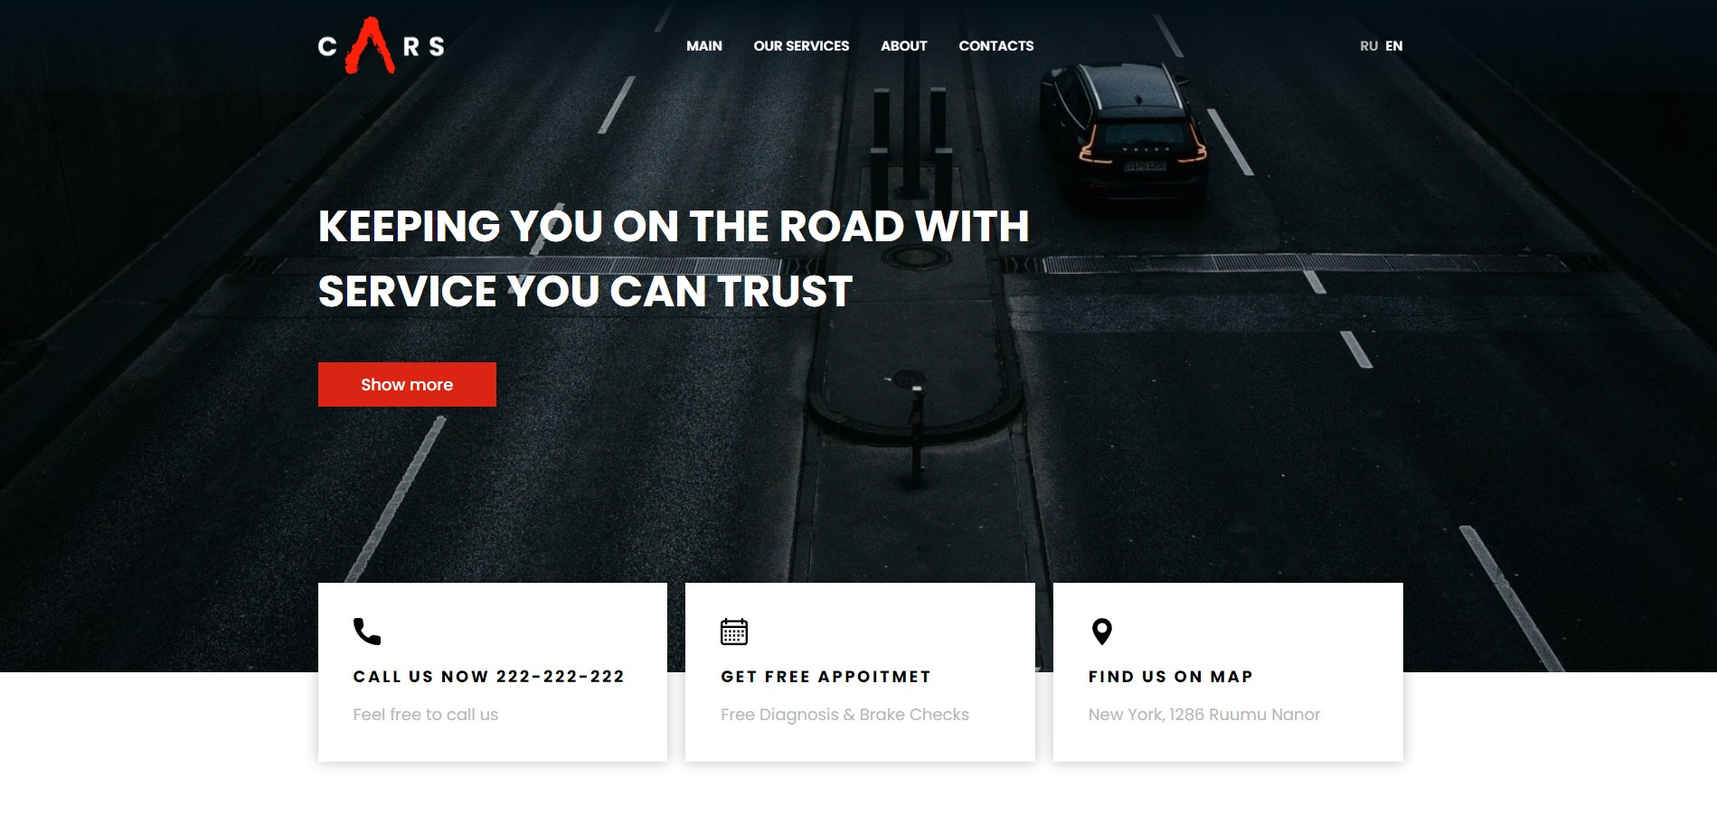
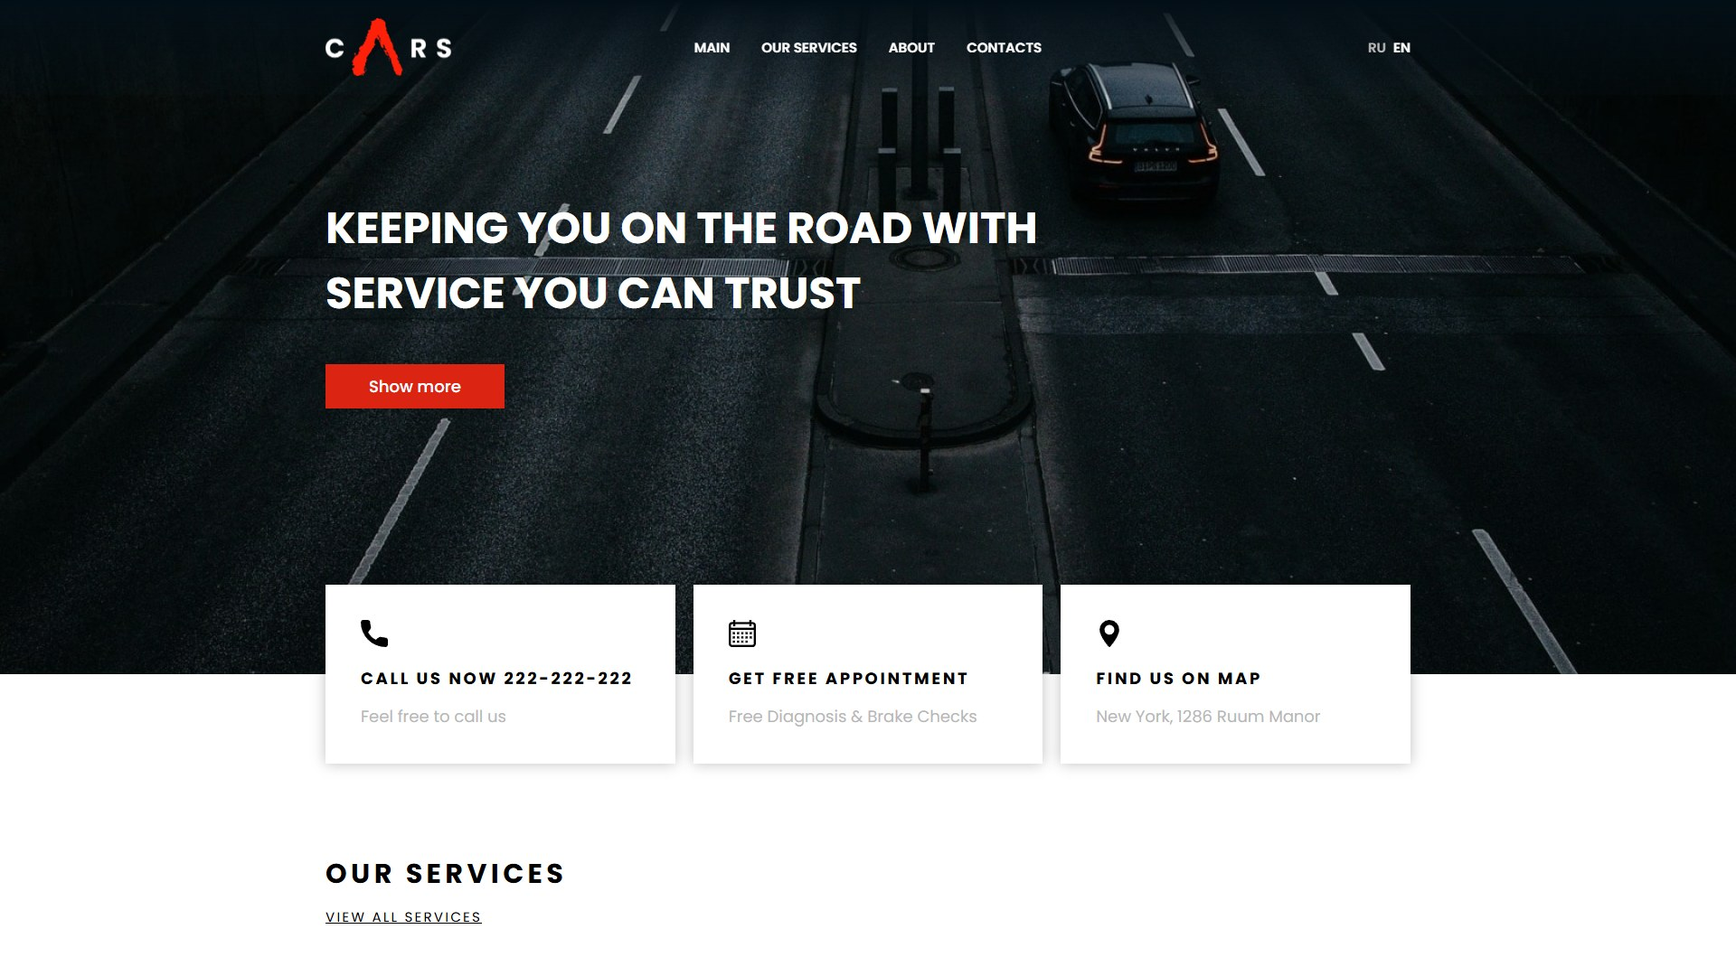
Доработка: meta description, опечатка APPOINTMENT, год в футере, новый README

diff --git a/index.html b/index.html
@@ -1,1 +1,1 @@
-<!DOCTYPE html><html lang=en><meta charset=UTF-8><meta content="IE=edge"http-equiv=X-UA-Compatible><meta content="width=device-width,initial-scale=1"name=viewport><link href=img/favicon/apple-touch-icon.png rel=apple-touch-icon sizes=180x180><link href=img/favicon/favicon-32x32.png rel=icon sizes=32x32 type=image/png><link href=img/favicon/favicon-16x16.png rel=icon sizes=16x16 type=image/png><link href=img/favicon/site.webmanifest rel=manifest><link href=img/favicon/safari-pinned-tab.svg rel=mask-icon color=#5bbad5><link href=img/favicon/favicon.ico rel="shortcut icon"><meta content=#2d89ef name=msapplication-TileColor><meta content=img/favicon/browserconfig.xml name=msapplication-config><meta content=#ffffff name=theme-color><title>CARS</title><link href=css/index.css rel=stylesheet><header class="header header-activ"><div class=wrapper><div class=header-wrapper><div class=header-img><a class=header-img-link href=/ ><img alt="KEEPING YOU ON THE ROAD WITH SERVICE YOU CAN TRUST"class=header-img-pic src=img/svg/logo.svg></a></div><nav class=header-nav><ul class=header-nav-menu><li class=header-nav-menu-item><a class="header-menu-item-link js-scroll"href=#main>Main</a><li class=header-nav-menu-item><a class="header-menu-item-link js-scroll"href=#our_services>Our services</a><li class=header-nav-menu-item><a class="header-menu-item-link js-scroll"href=#about>About</a><li class=header-nav-menu-item><a class="header-menu-item-link js-scroll"href=#contacts>Contacts</a></ul><div class=header-nav-close><span class=header-nav-close-line></span> <span class=header-nav-close-line></span></div></nav><div class=header-lang><ul class=header-lang-menu><li class=header-lang-menu-item><a class=header-lang-menu-item-link href=#5>ru</a><li class=header-lang-menu-item><a class="header-lang-menu-item-link lang-menu-item-link-activ"href=#6>en</a></ul></div><div class="burger header-burger"><span class="burger-line burger-line-first"></span> <span class="burger-line burger-line-second"></span> <span class="burger-line burger-line-third"></span></div></div></div></header><main class=main><div class=intro id=main><div class=wrapper><div class=intro-owerlay></div><div class=intro-content><h1 class=intro-title>Keeping you on the road with service you can trust</h1><a class=intro-show-more href=!#>Show more</a></div></div></div><div class=address><div class=wrapper><div class="cards address-cards"><div class="card address-cards-card"><div class=address-cards-item-img><img alt="CALL US NOW 222-222-222"class=address-cards-item-img-pic src=img/svg/call.svg></div><h3 class=address-cards-item-title>CALL US NOW 222-222-222</h3><p class=address-cards-item-desc>Feel free to call us</div><div class="card address-cards-card"><div class=address-cards-item-img><img alt="GET FREE APPOITMET"class=address-cards-item-img-pic src=img/svg/calendar.svg></div><h3 class=address-cards-item-title>GET FREE APPOITMET</h3><p class=address-cards-item-desc>Free Diagnosis & Brake Checks</div><div class="card address-cards-card"><div class=address-cards-item-img><img alt="FIND US ON MAP"class=address-cards-item-img-pic src=img/svg/maps-flags.svg></div><h3 class=address-cards-item-title>FIND US ON MAP</h3><p class=address-cards-item-desc>New York, 1286 Ruumu Nanor</div></div></div></div><section class=services id=our_services><div class=wrapper><h2 class=services-title>OUR SERVICES</h2><a class=services-view-all href=!#>VIEW ALL SERVICES</a><div class="cards services-cards"><div class="card services-cards-card"><div class=services-cards-card-miniature><div class=services-cards-card-miniature-img><img alt=DIAGNOSTIC class=services-cards-card-miniature-img-pic src=img/services_1-min.jpg></div><div class=services-cards-card-miniature-overlay><div class=services-cards-card-miniature-overlay-img><img alt=plus class=services-cards-card-miniature-overlay-img-pic src=img/svg/plus.svg></div><p class=services-cards-card-miniature-overlay-desc>ANNUAL CHECKUPS FROM YOUR PHYSICIAN KEEP YOU IN GOOD HEALTH</div></div><h3 class=services-cards-card-subtitle>DIAGNOSTIC</h3></div><div class="card services-cards-card"><div class=services-cards-card-miniature><div class=services-cards-card-miniature-img><img alt="TIRES & WHEELS"class=services-cards-card-miniature-img-pic src=img/services_2-min.jpg></div><div class=services-cards-card-miniature-overlay><div class=services-cards-card-miniature-overlay-img><img alt=plus class=services-cards-card-miniature-overlay-img-pic src=img/svg/plus.svg></div><p class=services-cards-card-miniature-overlay-desc>ANNUAL CHECKUPS FROM YOUR PHYSICIAN KEEP YOU IN GOOD HEALTH</div></div><h3 class=services-cards-card-subtitle>TIRES & WHEELS</h3></div><div class="card services-cards-card"><div class=services-cards-card-miniature><div class=services-cards-card-miniature-img><img alt=ENGINES class=services-cards-card-miniature-img-pic src=img/services_3-min.jpg></div><div class=services-cards-card-miniature-overlay><div class=services-cards-card-miniature-overlay-img><img alt=plus class=services-cards-card-miniature-overlay-img-pic src=img/svg/plus.svg></div><p class=services-cards-card-miniature-overlay-desc>ANNUAL CHECKUPS FROM YOUR PHYSICIAN KEEP YOU IN GOOD HEALTH</div></div><h3 class=services-cards-card-subtitle>ENGINES</h3></div></div></div></section><div class=understand id=about><div class=wrapper><div class=understand-wrap><div class=understand-content><h2 class=understand-content-title>WE UNDERSTAND HOW IMPORTANT IT IS TO FIND THE RIGHT AUTO SERVICE</h2><p class=understand-content-text>Car repairs and maintenance can be expensive and no one wants to have pay to repair damage caused by shoddy repair service. When you bring your car into our auto shop, you won’t have to worry because our staff is comprised of ASE certified technicians who are committed to making sure you have a safe dependable car.</p><a class=understand-content-more href=!#>MORE ABOUT US</a></div><div class=understand-img><img alt="WE UNDERSTAND HOW IMPORTANT IT IS TO FIND THE RIGHT AUTO SERVICE"class=understand-img-pic src=img/understand-min.jpg></div></div></div></div><section class=fast><div class=wrapper><h2 class=fast-title>FAST & EASY</h2><h3 class=fast-subtitle>our work process</h3><div class="cards fast-cards"><div class="card fast-cards-card"><h4 class=fast-cards-card-title>1.Request your quote</h4><p class=fast-cards-card-desc>We will be there when you most need us</div><div class="card fast-cards-card"><h4 class=fast-cards-card-title>02. BRING YOUR VEHICLE</h4><p class=fast-cards-card-desc>We are car guys at heart</div><div class="card fast-cards-card"><h4 class=fast-cards-card-title>03. GET IT REPAIRED</h4><p class=fast-cards-card-desc>High quality, low cost car servicing</div></div></div></section><section class=contact id=contacts><div class=wrapper><h2 class=contact-title>Contact us</h2><form class=contact-form><div class=contact-form-row><div class=contact-form-group><input class=contact-form-input id=name name=user_name placeholder=" "><label class=contact-form-label for=name>Name</label></div><div class="contact-form-group contact-form-group-nth"><input class=contact-form-input id=last-name name=user_last-name placeholder=" "><label class=contact-form-label for=last-name>Last name</label></div><div class=contact-form-group><input class=contact-form-input id=email name=user_email placeholder=" "type=email><label class=contact-form-label for=email>Email</label></div><div class="contact-form-group contact-form-group-nth"><input class=contact-form-input id=phone name=user_phone placeholder=" "type=tel><label class=contact-form-label for=phone>Phone</label></div></div><div class=contact-form-massage><textarea class=contact-form-textarea id=message name=user_message placeholder=Message></textarea></div><button class=contact-form-button type=submit>Send</button></form></div></section></main><footer class=footer><div class=wrapper><div class=footer-wrap><div class=footer-desc><p class=footer-desc-text>© 2021 Auto theme by Frontend Tricks</div><div class=footer-social-links><a class=footer-social-link href=!# target=_blank><img alt=linkedin class=footer-social-link-pic src=img/svg/linkedin.svg> </a><a class=footer-social-link href=!# target=_blank><img alt=facebook class=footer-social-link-pic src=img/svg/facebook.svg> </a><a class=footer-social-link href=!# target=_blank><img alt=instagram class=footer-social-link-pic src=img/svg/instagram.svg></a></div></div></div></footer><script src=js/index.js></script>
+<!DOCTYPE html><html lang=en><meta charset=UTF-8><meta content="IE=edge"http-equiv=X-UA-Compatible><meta content="width=device-width,initial-scale=1"name=viewport><meta content="CARS — auto repair service: diagnostics, tires & wheels, engines. Keeping you on the road with service you can trust."name=description><link href=img/favicon/apple-touch-icon.png rel=apple-touch-icon sizes=180x180><link href=img/favicon/favicon-32x32.png rel=icon sizes=32x32 type=image/png><link href=img/favicon/favicon-16x16.png rel=icon sizes=16x16 type=image/png><link href=img/favicon/site.webmanifest rel=manifest><link href=img/favicon/safari-pinned-tab.svg rel=mask-icon color=#5bbad5><link href=img/favicon/favicon.ico rel="shortcut icon"><meta content=#2d89ef name=msapplication-TileColor><meta content=img/favicon/browserconfig.xml name=msapplication-config><meta content=#ffffff name=theme-color><title>CARS</title><link href=css/index.css rel=stylesheet><header class="header header-activ"><div class=wrapper><div class=header-wrapper><div class=header-img><a class=header-img-link href=/ ><img alt="KEEPING YOU ON THE ROAD WITH SERVICE YOU CAN TRUST"class=header-img-pic src=img/svg/logo.svg></a></div><nav class=header-nav><ul class=header-nav-menu><li class=header-nav-menu-item><a class="header-menu-item-link js-scroll"href=#main>Main</a><li class=header-nav-menu-item><a class="header-menu-item-link js-scroll"href=#our_services>Our services</a><li class=header-nav-menu-item><a class="header-menu-item-link js-scroll"href=#about>About</a><li class=header-nav-menu-item><a class="header-menu-item-link js-scroll"href=#contacts>Contacts</a></ul><div class=header-nav-close><span class=header-nav-close-line></span> <span class=header-nav-close-line></span></div></nav><div class=header-lang><ul class=header-lang-menu><li class=header-lang-menu-item><a class=header-lang-menu-item-link href=#5>ru</a><li class=header-lang-menu-item><a class="header-lang-menu-item-link lang-menu-item-link-activ"href=#6>en</a></ul></div><div class="burger header-burger"><span class="burger-line burger-line-first"></span> <span class="burger-line burger-line-second"></span> <span class="burger-line burger-line-third"></span></div></div></div></header><main class=main><div class=intro id=main><div class=wrapper><div class=intro-owerlay></div><div class=intro-content><h1 class=intro-title>Keeping you on the road with service you can trust</h1><a class=intro-show-more href=!#>Show more</a></div></div></div><div class=address><div class=wrapper><div class="cards address-cards"><div class="card address-cards-card"><div class=address-cards-item-img><img alt="CALL US NOW 222-222-222"class=address-cards-item-img-pic src=img/svg/call.svg></div><h3 class=address-cards-item-title>CALL US NOW 222-222-222</h3><p class=address-cards-item-desc>Feel free to call us</div><div class="card address-cards-card"><div class=address-cards-item-img><img alt="GET FREE APPOINTMENT"class=address-cards-item-img-pic src=img/svg/calendar.svg></div><h3 class=address-cards-item-title>GET FREE APPOINTMENT</h3><p class=address-cards-item-desc>Free Diagnosis & Brake Checks</div><div class="card address-cards-card"><div class=address-cards-item-img><img alt="FIND US ON MAP"class=address-cards-item-img-pic src=img/svg/maps-flags.svg></div><h3 class=address-cards-item-title>FIND US ON MAP</h3><p class=address-cards-item-desc>New York, 1286 Ruum Manor</div></div></div></div><section class=services id=our_services><div class=wrapper><h2 class=services-title>OUR SERVICES</h2><a class=services-view-all href=!#>VIEW ALL SERVICES</a><div class="cards services-cards"><div class="card services-cards-card"><div class=services-cards-card-miniature><div class=services-cards-card-miniature-img><img alt=DIAGNOSTIC class=services-cards-card-miniature-img-pic src=img/services_1-min.jpg></div><div class=services-cards-card-miniature-overlay><div class=services-cards-card-miniature-overlay-img><img alt=plus class=services-cards-card-miniature-overlay-img-pic src=img/svg/plus.svg></div><p class=services-cards-card-miniature-overlay-desc>ANNUAL CHECKUPS FROM YOUR PHYSICIAN KEEP YOU IN GOOD HEALTH</div></div><h3 class=services-cards-card-subtitle>DIAGNOSTIC</h3></div><div class="card services-cards-card"><div class=services-cards-card-miniature><div class=services-cards-card-miniature-img><img alt="TIRES & WHEELS"class=services-cards-card-miniature-img-pic src=img/services_2-min.jpg></div><div class=services-cards-card-miniature-overlay><div class=services-cards-card-miniature-overlay-img><img alt=plus class=services-cards-card-miniature-overlay-img-pic src=img/svg/plus.svg></div><p class=services-cards-card-miniature-overlay-desc>ANNUAL CHECKUPS FROM YOUR PHYSICIAN KEEP YOU IN GOOD HEALTH</div></div><h3 class=services-cards-card-subtitle>TIRES & WHEELS</h3></div><div class="card services-cards-card"><div class=services-cards-card-miniature><div class=services-cards-card-miniature-img><img alt=ENGINES class=services-cards-card-miniature-img-pic src=img/services_3-min.jpg></div><div class=services-cards-card-miniature-overlay><div class=services-cards-card-miniature-overlay-img><img alt=plus class=services-cards-card-miniature-overlay-img-pic src=img/svg/plus.svg></div><p class=services-cards-card-miniature-overlay-desc>ANNUAL CHECKUPS FROM YOUR PHYSICIAN KEEP YOU IN GOOD HEALTH</div></div><h3 class=services-cards-card-subtitle>ENGINES</h3></div></div></div></section><div class=understand id=about><div class=wrapper><div class=understand-wrap><div class=understand-content><h2 class=understand-content-title>WE UNDERSTAND HOW IMPORTANT IT IS TO FIND THE RIGHT AUTO SERVICE</h2><p class=understand-content-text>Car repairs and maintenance can be expensive and no one wants to have pay to repair damage caused by shoddy repair service. When you bring your car into our auto shop, you won’t have to worry because our staff is comprised of ASE certified technicians who are committed to making sure you have a safe dependable car.</p><a class=understand-content-more href=!#>MORE ABOUT US</a></div><div class=understand-img><img alt="WE UNDERSTAND HOW IMPORTANT IT IS TO FIND THE RIGHT AUTO SERVICE"class=understand-img-pic src=img/understand-min.jpg></div></div></div></div><section class=fast><div class=wrapper><h2 class=fast-title>FAST & EASY</h2><h3 class=fast-subtitle>our work process</h3><div class="cards fast-cards"><div class="card fast-cards-card"><h4 class=fast-cards-card-title>1.Request your quote</h4><p class=fast-cards-card-desc>We will be there when you most need us</div><div class="card fast-cards-card"><h4 class=fast-cards-card-title>02. BRING YOUR VEHICLE</h4><p class=fast-cards-card-desc>We are car guys at heart</div><div class="card fast-cards-card"><h4 class=fast-cards-card-title>03. GET IT REPAIRED</h4><p class=fast-cards-card-desc>High quality, low cost car servicing</div></div></div></section><section class=contact id=contacts><div class=wrapper><h2 class=contact-title>Contact us</h2><form class=contact-form><div class=contact-form-row><div class=contact-form-group><input class=contact-form-input id=name name=user_name placeholder=" "><label class=contact-form-label for=name>Name</label></div><div class="contact-form-group contact-form-group-nth"><input class=contact-form-input id=last-name name=user_last-name placeholder=" "><label class=contact-form-label for=last-name>Last name</label></div><div class=contact-form-group><input class=contact-form-input id=email name=user_email placeholder=" "type=email><label class=contact-form-label for=email>Email</label></div><div class="contact-form-group contact-form-group-nth"><input class=contact-form-input id=phone name=user_phone placeholder=" "type=tel><label class=contact-form-label for=phone>Phone</label></div></div><div class=contact-form-massage><textarea class=contact-form-textarea id=message name=user_message placeholder=Message></textarea></div><button class=contact-form-button type=submit>Send</button></form></div></section></main><footer class=footer><div class=wrapper><div class=footer-wrap><div class=footer-desc><p class=footer-desc-text>© 2026 Auto theme by Frontend Tricks</div><div class=footer-social-links><a class=footer-social-link href=!# target=_blank><img alt=linkedin class=footer-social-link-pic src=img/svg/linkedin.svg> </a><a class=footer-social-link href=!# target=_blank><img alt=facebook class=footer-social-link-pic src=img/svg/facebook.svg> </a><a class=footer-social-link href=!# target=_blank><img alt=instagram class=footer-social-link-pic src=img/svg/instagram.svg></a></div></div></div></footer><script src=js/index.js></script>

diff --git a/main.html b/main.html
@@ -95,9 +95,9 @@
                     </div>
                     <div class="address-cards-card card">
                         <div class="address-cards-item-img">
-                            <img src="img/svg/calendar.svg" alt="GET FREE APPOITMET" class="address-cards-item-img-pic">
+                            <img src="img/svg/calendar.svg" alt="GET FREE APPOINTMENT" class="address-cards-item-img-pic">
                         </div>
-                        <h3 class="address-cards-item-title">GET FREE APPOITMET</h3>
+                        <h3 class="address-cards-item-title">GET FREE APPOINTMENT</h3>
                         <p class="address-cards-item-desc">Free Diagnosis & Brake Checks</p>
                     </div>
                     <div class="address-cards-card card">
@@ -105,7 +105,7 @@
                             <img src="img/svg/maps-flags.svg" alt="FIND US ON MAP" class="address-cards-item-img-pic">
                         </div>
                         <h3 class="address-cards-item-title">FIND US ON MAP</h3>
-                        <p class="address-cards-item-desc">New York, 1286 Ruumu Nanor</p>
+                        <p class="address-cards-item-desc">New York, 1286 Ruum Manor</p>
                     </div>
                 </div>
             </div>
@@ -238,7 +238,7 @@
         <div class="wrapper">
             <div class="footer-wrap">
                 <div class="footer-desc">
-                    <p class="footer-desc-text">© 2021 Auto theme by Frontend Tricks</p>
+                    <p class="footer-desc-text">© 2026 Auto theme by Frontend Tricks</p>
                 </div>
                 <div class="footer-social-links">
                     <a href="!#" target="_blank" class="footer-social-link">

diff --git a/README.md b/README.md
@@ -1,27 +1,49 @@
-# Car Repair
-## Landing Page
+# 🔧 CARS — лендинг автосервиса
 
-[>>> Просмотр страницы Car Repair <<<](https://pavelreb.github.io/Car_Repair/)
+Адаптивный лендинг автосервиса «Keeping you on the road with service you can trust», свёрстанный с нуля по макету Figma. Карточки услуг с оверлеями, форма обратной связи, переключатель языка, бургер-меню.
 
-![This is an image](https://github.com/Pavelreb/car_repair_landing_page/blob/master/img/first-screen.jpg?raw=true)
+[>>> Открыть сайт <<<](https://pavelreb.github.io/Car_Repair/)
 
-### Описание пректа
-Обучающая верстка сайта с нуля с использованием графического редактора FIGMA, для написания кода использовался текстовый редактор Visual Studio Code макет свёрстан адаптивным и кросбраузерным.
+![Первый экран](img/first-screen.jpg)
 
-### В вёрстке использовались технологии:
-- HyperText Markup Language HTML5
-- Cascading Style Sheets CSS3
-- CSS Flexible Box Layout (Flexbox)
-- CSS Grid Layout
-- JavaScript EC6
+## ✨ Что внутри
 
-### Оптимизация проекта:
-- Компрессия изображений
-- Добавлены префиксы в .css файлы
-- Компрессия .html .css .js файлов
-- Проверка кода на валидность
+- 🖥 **Первый экран** с оффером и кнопкой «Show more»
+- 📇 **Контакт-карточки** — звонок, запись, адрес
+- 🛠 **Our Services** — Diagnostic, Tires & Wheels, Engines с hover-оверлеями
+- 🏢 **About** — о компании и ASE-сертификации мастеров
+- ⚡ **Fast & Easy** — процесс работы в три шага
+- 📩 **Contact us** — форма с плавающими лейблами
+- 🍔 **Бургер-меню**, плавный скролл, липкая шапка, переключатель RU/EN
 
-### Материалы проекта:
-Ссылка на макет Figma: [Перейти](https://www.figma.com/file/PHEnhLx8ilm0a446M2KcrR/Car-repair-(Course)?node-id=0:1&utm_source=figma)
+## 🛠 Технологии
 
-Ссылка на плэйлист серии уроков: [Смотреть](https://www.youtube.com/watch?v=KsbI8zdlu2M&list=PLgzmTiAoPpLpmfmEkQNYezhMhDekTBuia&index=1)
+| Технология | Применение |
+|------------|-----------|
+| **HTML5** | Семантическая разметка |
+| **CSS3 (Flexbox / Grid)** | Раскладка секций и карточек |
+| **Media Queries** | Адаптив под десктоп, планшет и мобильные |
+| **JavaScript (ES6)** | Меню, скролл, липкий хедер — без библиотек |
+| **Figma** | Вёрстка по макету |
+
+## ⚡ Оптимизация
+
+- Продакшен-версия (`index.html` + `css/index.css` + `js/index.js`) минифицирована
+- Читаемые исходники рядом: `main.html`, `css/main.css`, `js/main.js`
+- Сжатые изображения (`*-min.jpg`), локальные шрифты, полный набор favicon
+
+## 🚀 Запуск
+
+Сборка не требуется — достаточно открыть `index.html` в браузере или развернуть на любом статическом хостинге (GitHub Pages, Netlify, Vercel).
+
+## 📁 Структура
+
+```
+Car_Repair/
+├── index.html      # Продакшен (минифицирован)
+├── main.html       # Исходник
+├── css/            # index.css (min) + main.css / media.css / fonts.css / reset.css
+├── js/             # index.js (min) + main.js
+├── fonts/          # Локальные шрифты
+└── img/            # Изображения, SVG, фавиконки
+```
